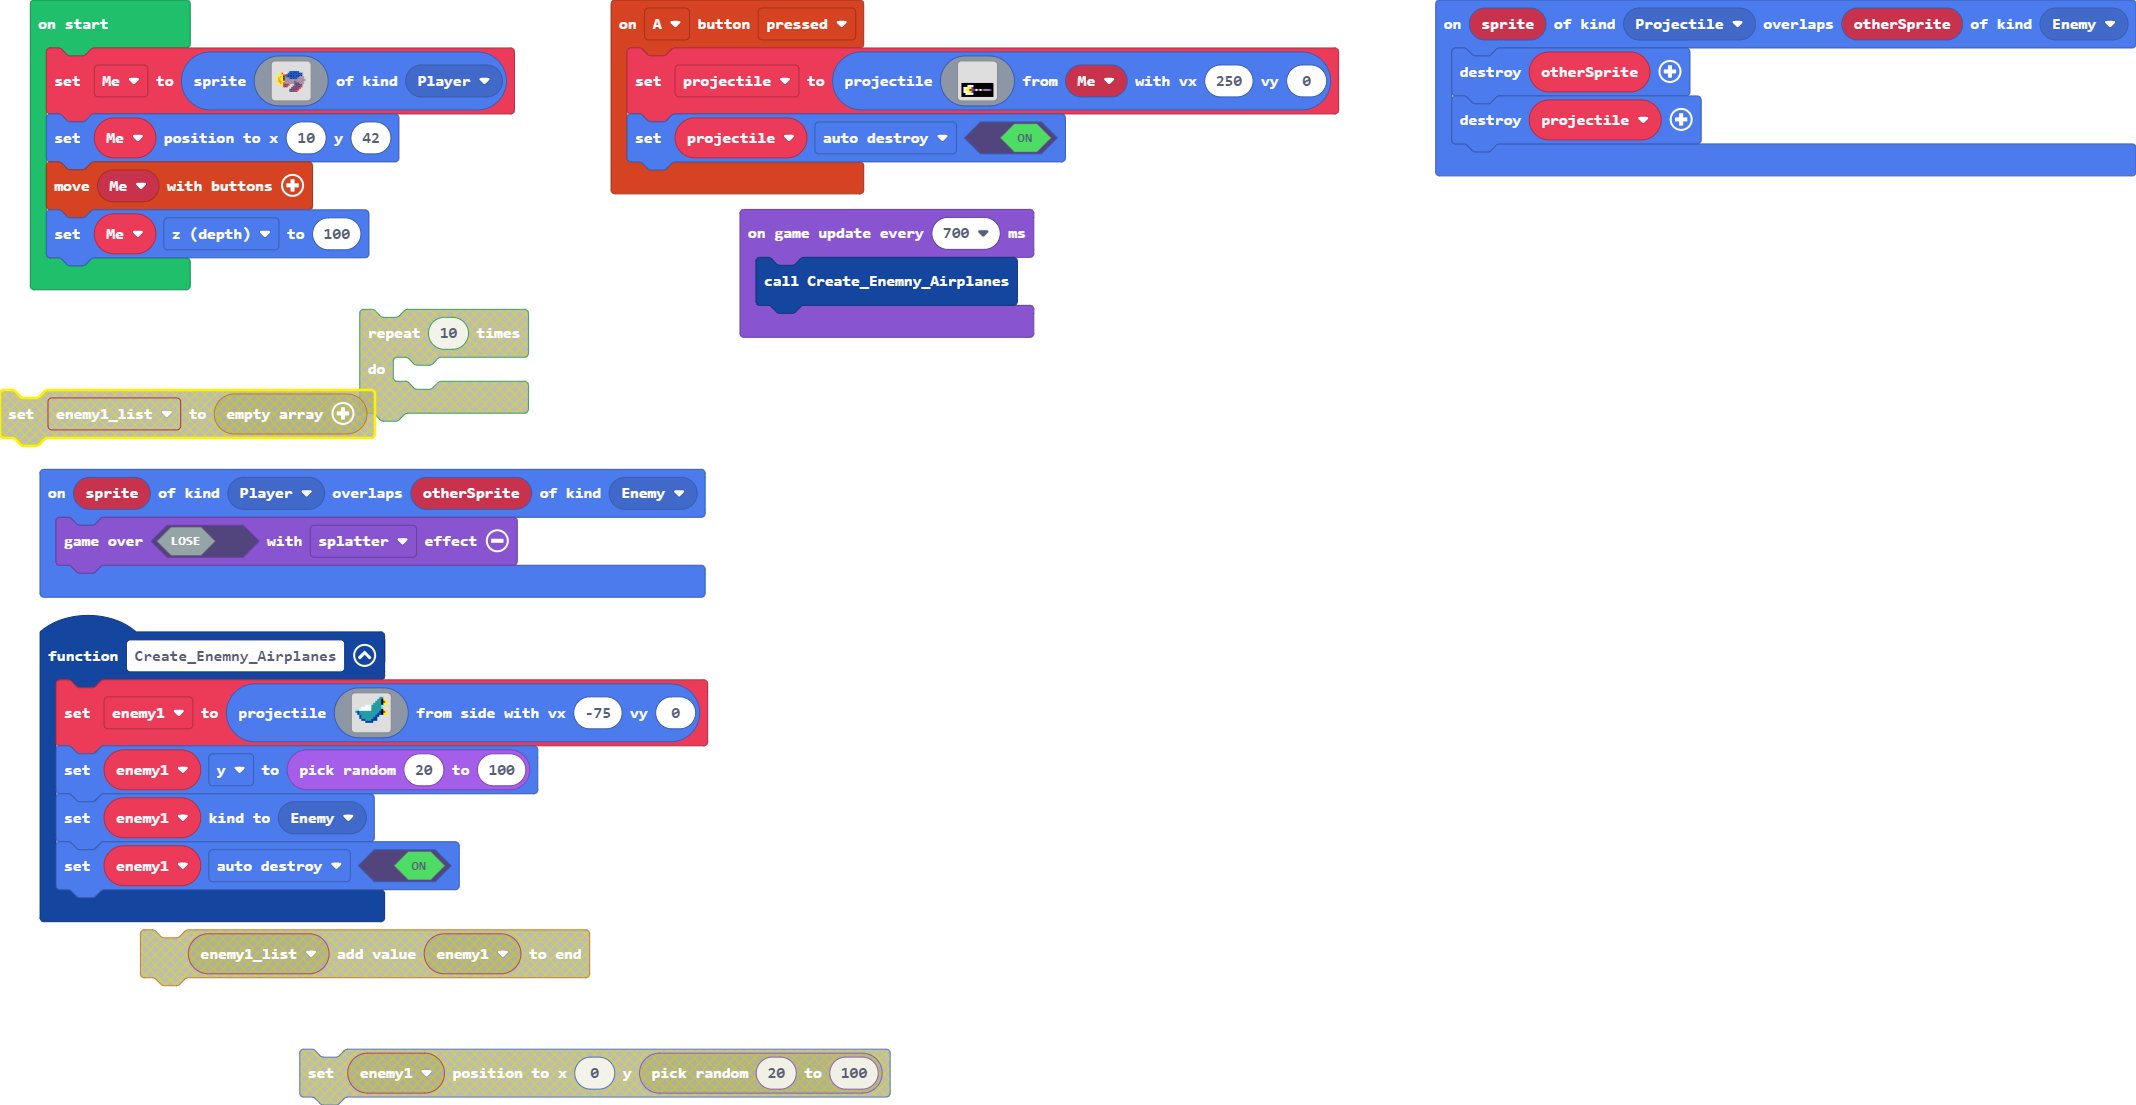
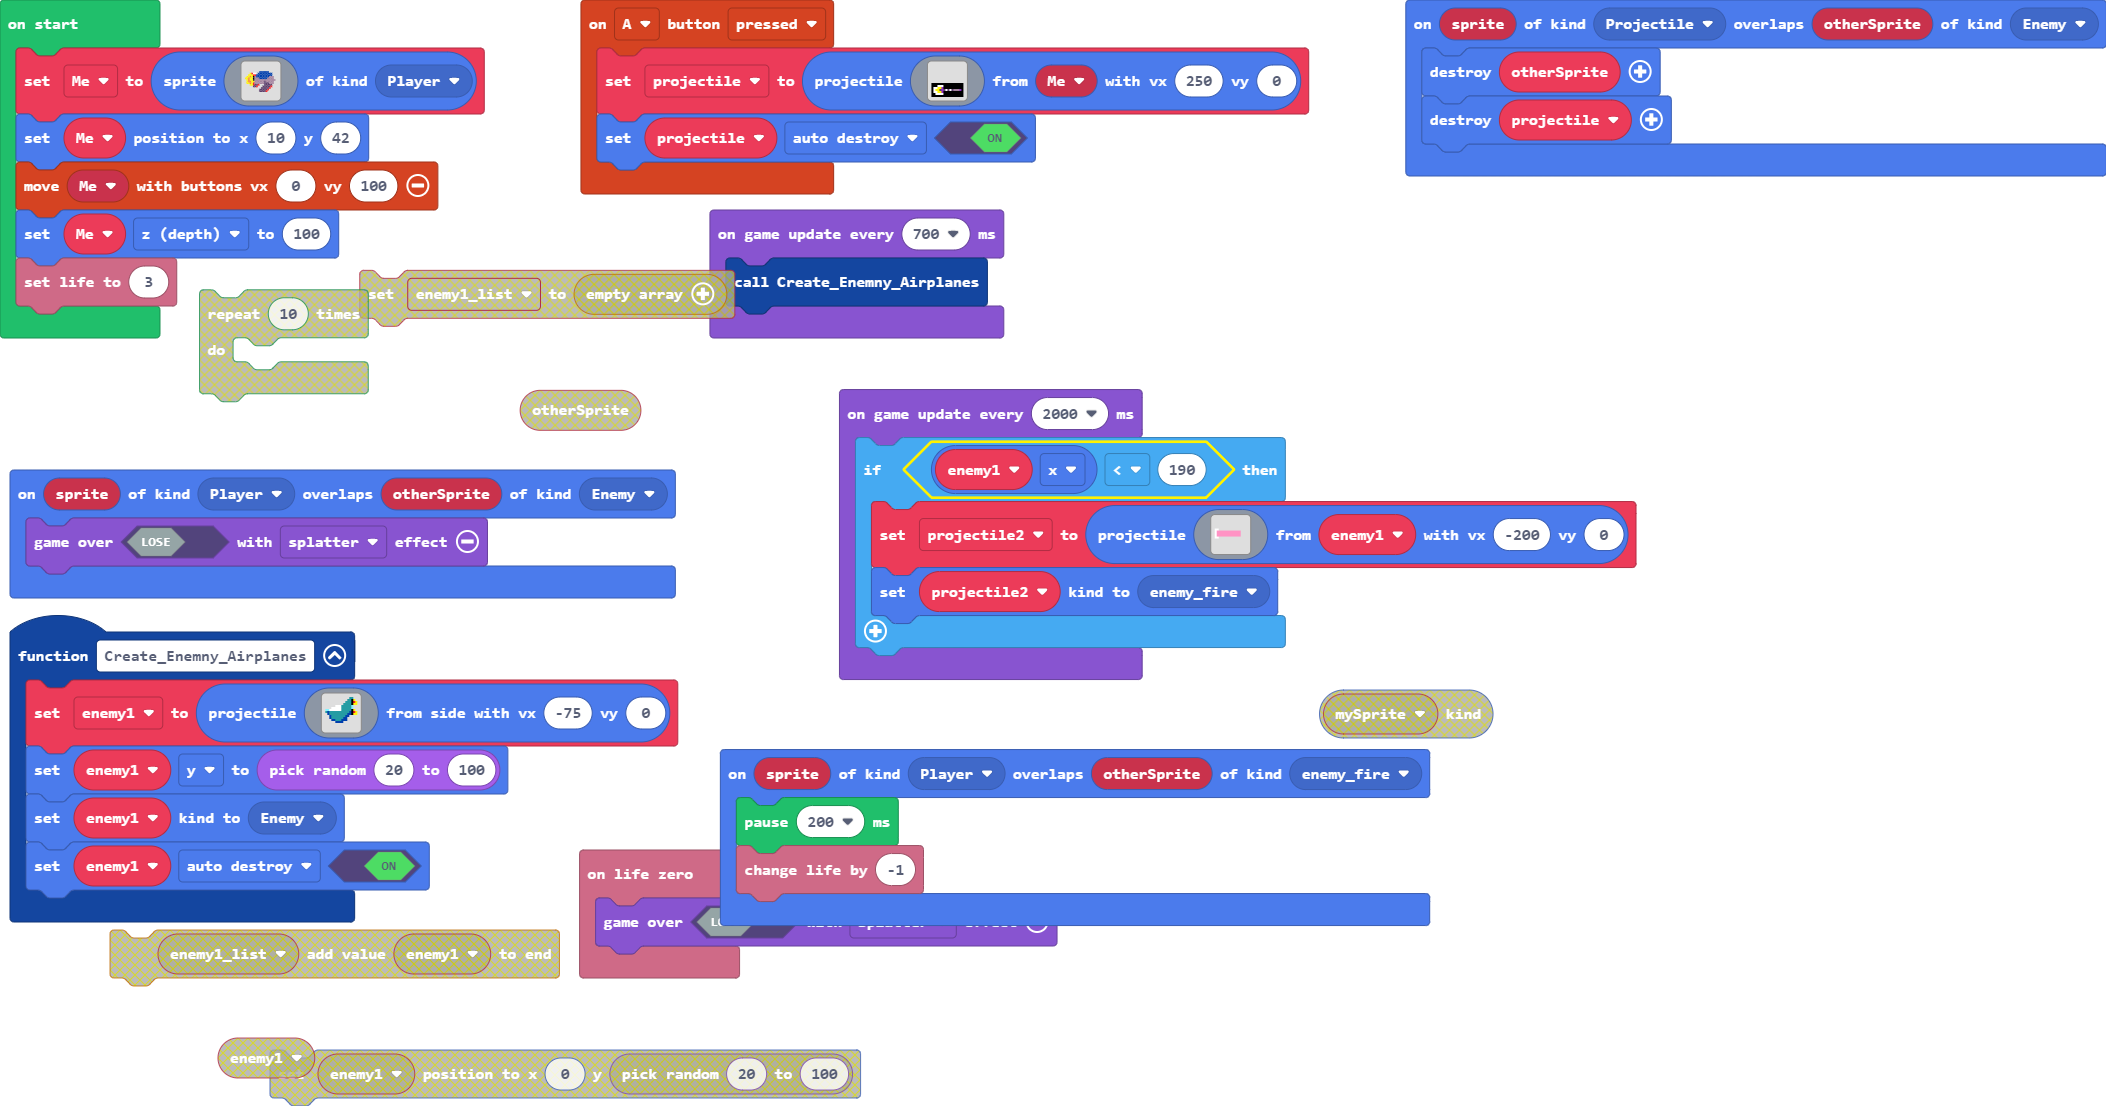
Update main.blocks, main.ts

diff --git a/main.ts b/main.ts
@@ -1,3 +1,6 @@
+namespace SpriteKind {
+    export const enemy_fire = SpriteKind.create()
+}
 controller.A.onEvent(ControllerButtonEvent.Pressed, function () {
     projectile = sprites.createProjectileFromSprite(img`
         . . . . . . . . . . . . . . . . 
@@ -42,6 +45,13 @@ function Create_Enemny_Airplanes () {
     enemy1.setKind(SpriteKind.Enemy)
     enemy1.setFlag(SpriteFlag.AutoDestroy, true)
 }
+sprites.onOverlap(SpriteKind.Player, SpriteKind.enemy_fire, function (sprite, otherSprite) {
+    pause(200)
+    info.changeLifeBy(-1)
+})
+info.onLifeZero(function () {
+    game.over(false, effects.splatter)
+})
 sprites.onOverlap(SpriteKind.Projectile, SpriteKind.Enemy, function (sprite, otherSprite) {
     otherSprite.destroy()
     projectile.destroy()
@@ -49,6 +59,7 @@ sprites.onOverlap(SpriteKind.Projectile, SpriteKind.Enemy, function (sprite, oth
 sprites.onOverlap(SpriteKind.Player, SpriteKind.Enemy, function (sprite, otherSprite) {
     game.over(false, effects.splatter)
 })
+let projectile2: Sprite = null
 let enemy1: Sprite = null
 let projectile: Sprite = null
 let Me: Sprite = null
@@ -71,8 +82,32 @@ Me = sprites.create(img`
     ....................
     `, SpriteKind.Player)
 Me.setPosition(10, 42)
-controller.moveSprite(Me)
+controller.moveSprite(Me, 0, 100)
 Me.z = 100
+info.setLife(3)
 game.onUpdateInterval(700, function () {
     Create_Enemny_Airplanes()
+})
+game.onUpdateInterval(2000, function () {
+    if (enemy1.x < 190) {
+        projectile2 = sprites.createProjectileFromSprite(img`
+            . . . . . . . . . . . . . . . . 
+            . . . . . . . . . . . . . . . . 
+            . . . . . . . . . . . . . . . . 
+            . . . . . . . . . . . . . . . . 
+            . . . . . . . . . . . . . . . . 
+            1 1 . . . . . . . . . . . . . . 
+            1 3 3 3 3 3 3 3 3 3 3 3 3 . . . 
+            1 3 3 3 3 3 3 3 3 3 3 3 3 . . . 
+            1 3 3 3 3 3 3 3 3 3 3 3 3 . . . 
+            1 1 . . . . . . . . . . . . . . 
+            . . . . . . . . . . . . . . . . 
+            . . . . . . . . . . . . . . . . 
+            . . . . . . . . . . . . . . . . 
+            . . . . . . . . . . . . . . . . 
+            . . . . . . . . . . . . . . . . 
+            . . . . . . . . . . . . . . . . 
+            `, enemy1, -200, 0)
+        projectile2.setKind(SpriteKind.enemy_fire)
+    }
 })
